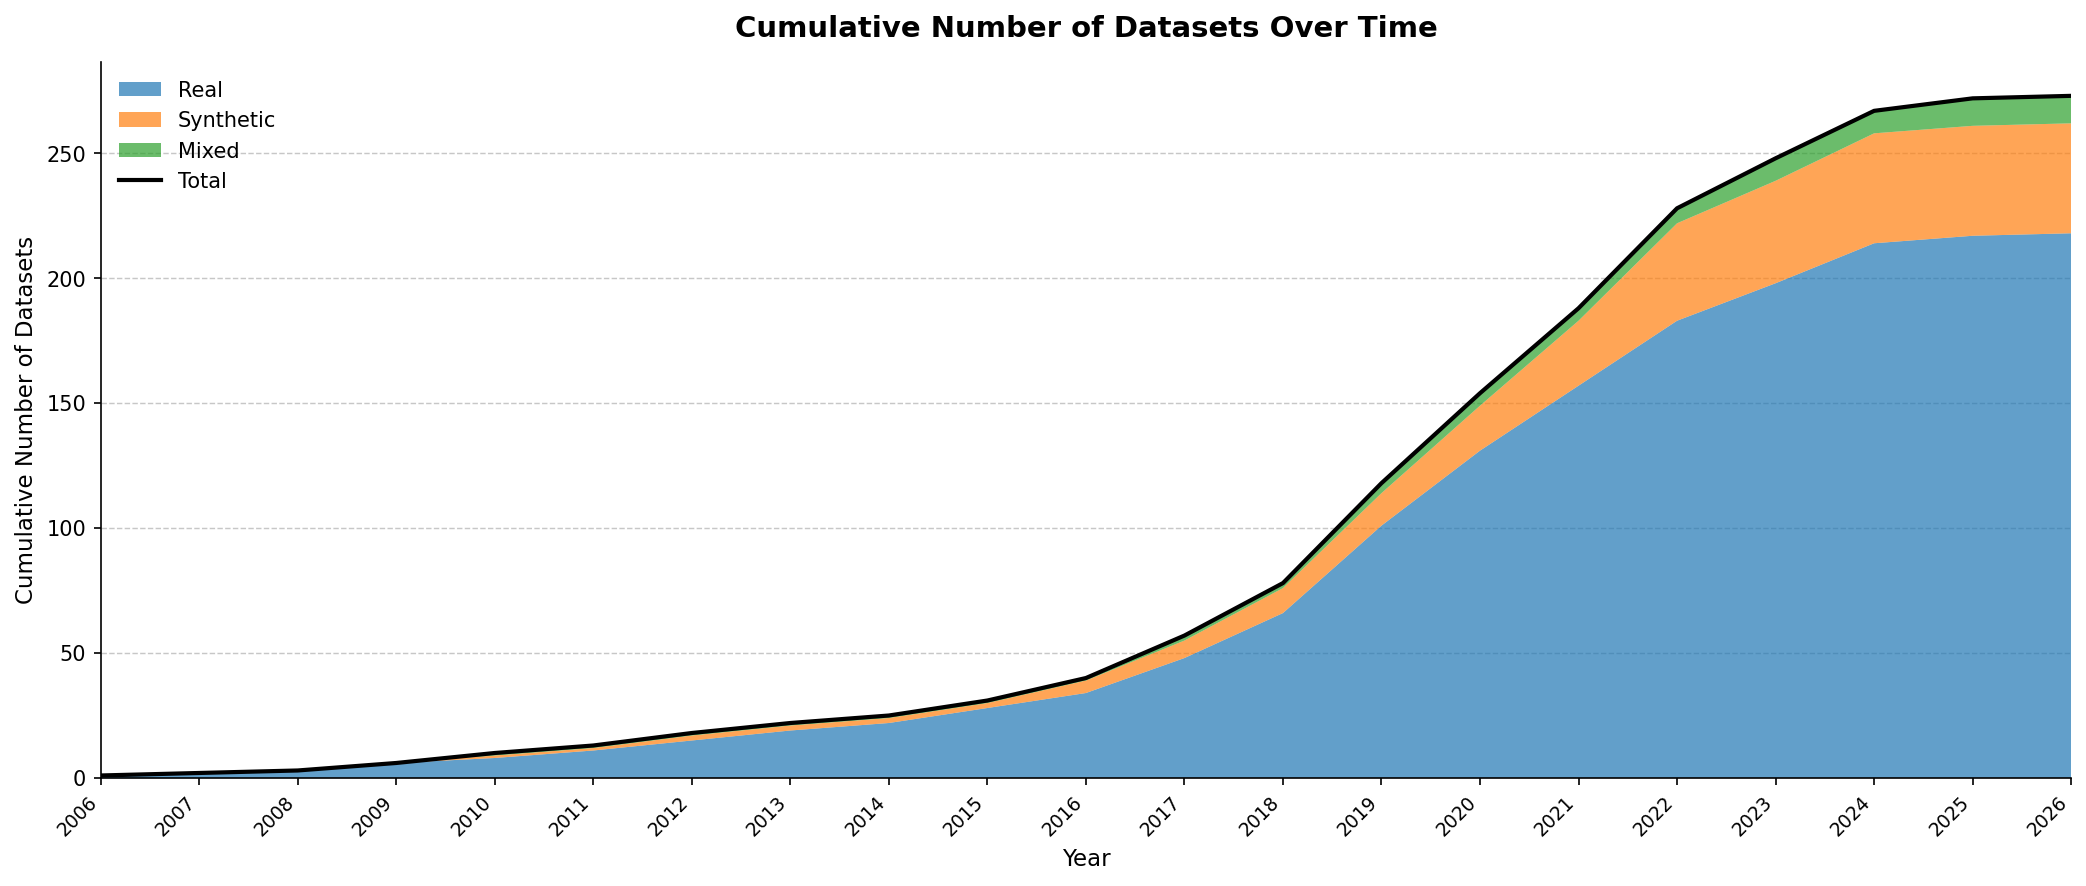
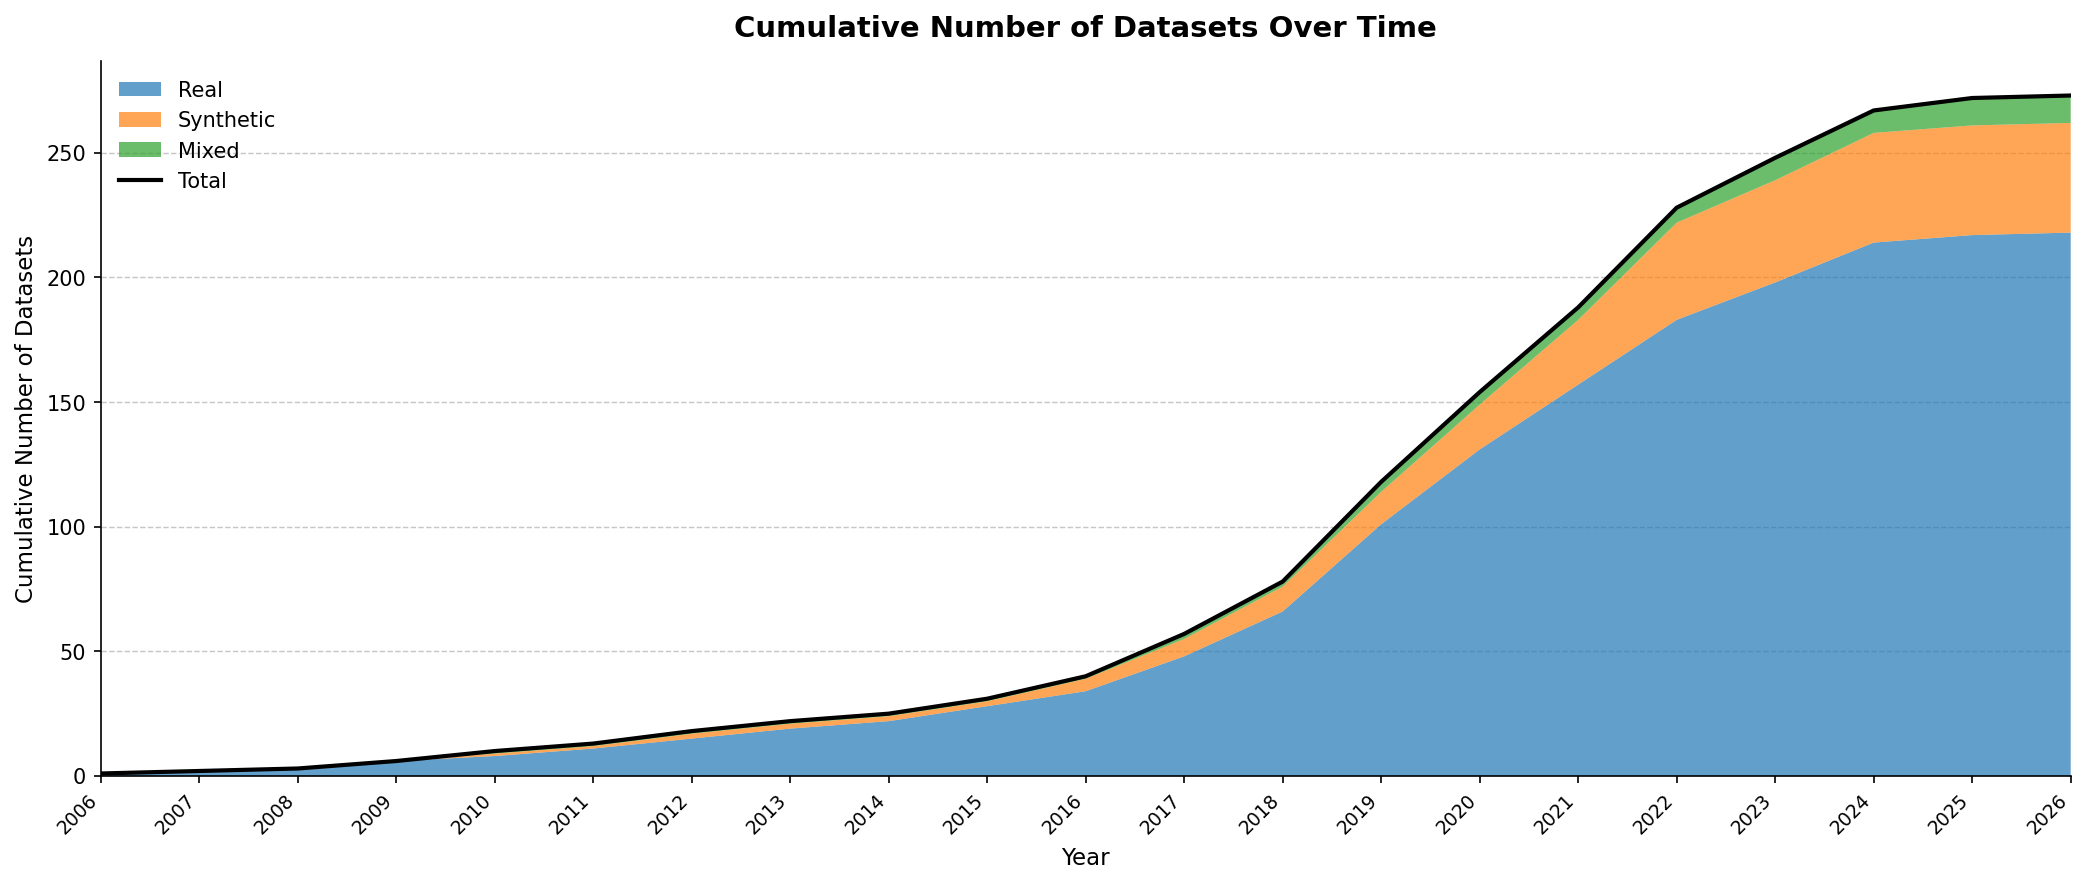
Sensor per year

diff --git a/dataset/total_dataset_analysis/03_avg_sensors_per_year.py b/dataset/total_dataset_analysis/03_avg_sensors_per_year.py
@@ -1,0 +1,77 @@
+import pandas as pd
+import matplotlib.pyplot as plt
+import matplotlib.ticker as mticker
+import os
+
+BASE_DIR = os.path.dirname(os.path.abspath(__file__))
+df = pd.read_csv(os.path.join(BASE_DIR, 'dataset_cleaned.csv'))
+
+# ── Filter: Real (0) + Original (0) only ─────────────────────────────────────
+# Synthetic excluded: no physical sensors, would drag average down artificially
+# Mixed excluded: unknown real/synthetic ratio per dataset, uncontrollable variable
+# Derived/Extension/Aggregated excluded: reuse existing sensors, causes double counting
+
+filtered = df[
+    (df['Real / Synthetic / Mixed'] == 0) &
+    (df['Original / Derived / Extension / Aggregated'] == 0)
+].copy()
+
+# ── Compute sensor count per dataset ─────────────────────────────────────────
+sensor_cols = [
+    'Monocular Camera', 'Stereo Camera', 'Fisheye Camera',
+    'Event Camera', 'Thermal Camera', 'LiDAR', 'Radar', 'IMU', 'GPS_GNSS'
+]
+filtered['sensor_count'] = filtered[sensor_cols].sum(axis=1)
+
+# ── Aggregate per year ────────────────────────────────────────────────────────
+stats = (filtered.groupby('Year')['sensor_count']
+                 .agg(['mean', 'count'])
+                 .reindex(range(df['Year'].min(), filtered['Year'].max() + 1), fill_value=0))
+stats.columns = ['mean', 'count']
+
+# ── Plot ──────────────────────────────────────────────────────────────────────
+fig, ax1 = plt.subplots(figsize=(14, 6))
+
+# Background bars: number of datasets per year (secondary context)
+ax2 = ax1.twinx()
+ax2.bar(stats.index, stats['count'], color='#d0d0d0', width=0.6, zorder=2, label='# datasets')
+ax2.set_ylabel('Number of Datasets (Real + Original)', fontsize=10, color='#999999')
+ax2.tick_params(axis='y', colors='#999999', labelsize=9)
+ax2.spines[['top', 'right']].set_color('#d0d0d0')
+ax2.set_ylim(0, stats['count'].max() * 3.5)
+
+# Line: average sensor count (only for years with at least 1 dataset)
+valid = stats[stats['count'] > 0]
+ax1.plot(valid.index, valid['mean'],
+         color='#1f77b4', linewidth=2.5, marker='o', markersize=5, zorder=4, label='Avg sensors')
+
+# Value labels on each point
+for year, row in valid.iterrows():
+    ax1.text(year, row['mean'] + 0.1, f"{row['mean']:.1f}",
+             ha='center', va='bottom', fontsize=7.5, color='#1f77b4')
+
+# ── Styling ───────────────────────────────────────────────────────────────────
+ax1.set_title('Average Sensor Count per Year\n(Real + Original datasets only, out of 9 sensors)',
+              fontsize=14, fontweight='bold', pad=12)
+ax1.set_xlabel('Year', fontsize=11)
+ax1.set_ylabel('Average Number of Sensors (out of 9)', fontsize=11)
+ax1.set_ylim(0, 9)
+ax1.yaxis.grid(True, linestyle='--', linewidth=0.7, alpha=0.7, zorder=0)
+ax1.set_axisbelow(True)
+ax1.spines[['top', 'right']].set_visible(False)
+ax1.xaxis.set_major_locator(mticker.MultipleLocator(1))
+ax1.set_xlim(2005.5, 2026.5)
+plt.xticks(rotation=45, ha='right', fontsize=9)
+
+# Combined legend
+lines1, labels1 = ax1.get_legend_handles_labels()
+lines2, labels2 = ax2.get_legend_handles_labels()
+ax1.legend(lines1 + lines2, labels1 + labels2, fontsize=10, frameon=False, loc='upper left')
+
+plt.tight_layout()
+
+# ── Save ──────────────────────────────────────────────────────────────────────
+out = os.path.join(BASE_DIR, 'total_dataset_analysis_figures', '03_avg_sensors_per_year.png')
+plt.savefig(out, dpi=150, bbox_inches='tight')
+plt.show()
+print(f'Saved → {out}')

diff --git a/dataset/total_dataset_analysis/02_cumulative_dataset.py b/dataset/total_dataset_analysis/02_cumulative_dataset.py
@@ -10,7 +10,7 @@ df = pd.read_csv(os.path.join(BASE_DIR, 'dataset_cleaned.csv'))
 type_map = {0: 'Real', 1: 'Synthetic', 2: 'Mixed'}
 df['Type'] = df['Real / Synthetic / Mixed'].map(type_map)
 
-years = range(2006, 2027)
+years = range(df['Year'].min(), df['Year'].max()+1)
 
 counts = (df.groupby(['Year', 'Type'])
             .size()
@@ -53,7 +53,7 @@ plt.xticks(rotation=45, ha='right', fontsize=9)
 plt.tight_layout()
 
 # ── Save ──────────────────────────────────────────────────────────────────────
-out = os.path.join(BASE_DIR, 'figures', '02_cumulative_datasets.png')
+out = os.path.join(BASE_DIR, 'total_dataset_analysis_figures', '02_cumulative_datasets.png')
 plt.savefig(out, dpi=150, bbox_inches='tight')
 plt.show()
 print(f'Saved → {out}')

diff --git a/dataset/total_dataset_analysis/01d_dataset_to_year_total.py b/dataset/total_dataset_analysis/01d_dataset_to_year_total.py
@@ -42,7 +42,7 @@ ax.xaxis.set_major_locator(mticker.MultipleLocator(1))
 plt.xticks(rotation=45, ha='right', fontsize=9)
 
 plt.tight_layout()
-out = os.path.join(BASE_DIR, 'figures', '01d_data_to_year_total.png')
+out = os.path.join(BASE_DIR, 'total_dataset_analysis_figures', '01d_data_to_year_total.png')
 plt.savefig(out, dpi=150, bbox_inches='tight')
 plt.show()
 print(f'Saved → {out}')

diff --git a/dataset/total_dataset_analysis/01a_dataset_to_year_real.py b/dataset/total_dataset_analysis/01a_dataset_to_year_real.py
@@ -27,7 +27,7 @@ ax.xaxis.set_major_locator(mticker.MultipleLocator(1))
 plt.xticks(rotation=45, ha='right', fontsize=9)
 
 plt.tight_layout()
-out = os.path.join(BASE_DIR, 'figures', '01a_data_to_year_real.png')
+out = os.path.join(BASE_DIR, 'total_dataset_analysis_figures', '01a_data_to_year_real.png')
 plt.savefig(out, dpi=150, bbox_inches='tight')
 plt.show()
 print(f'Saved → {out}')

diff --git a/dataset/total_dataset_analysis/01b_dataset_to_year_syn.py b/dataset/total_dataset_analysis/01b_dataset_to_year_syn.py
@@ -27,7 +27,7 @@ ax.xaxis.set_major_locator(mticker.MultipleLocator(1))
 plt.xticks(rotation=45, ha='right', fontsize=9)
 
 plt.tight_layout()
-out = os.path.join(BASE_DIR, 'figures', '01b_data_to_year_syn.png')
+out = os.path.join(BASE_DIR, 'total_dataset_analysis_figures', '01b_data_to_year_syn.png')
 plt.savefig(out, dpi=150, bbox_inches='tight')
 plt.show()
 print(f'Saved → {out}')

diff --git a/dataset/total_dataset_analysis/01c_dataset_to_year_mix.py b/dataset/total_dataset_analysis/01c_dataset_to_year_mix.py
@@ -27,7 +27,7 @@ ax.xaxis.set_major_locator(mticker.MultipleLocator(1))
 plt.xticks(rotation=45, ha='right', fontsize=9)
 
 plt.tight_layout()
-out = os.path.join(BASE_DIR, 'figures', '01c_data_to_year_mix.png')
+out = os.path.join(BASE_DIR, 'total_dataset_analysis_figures', '01c_data_to_year_mix.png')
 plt.savefig(out, dpi=150, bbox_inches='tight')
 plt.show()
 print(f'Saved → {out}')
